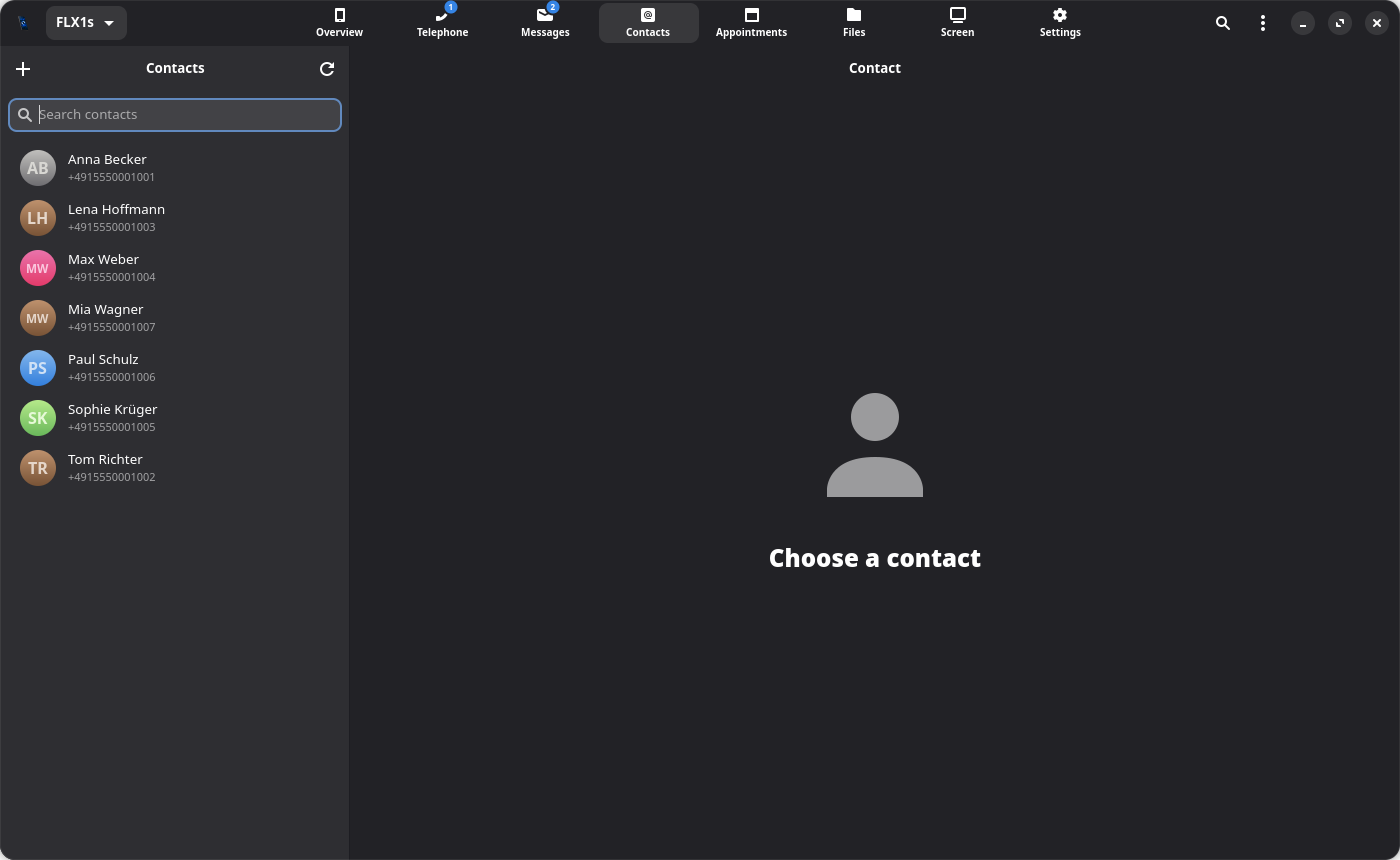
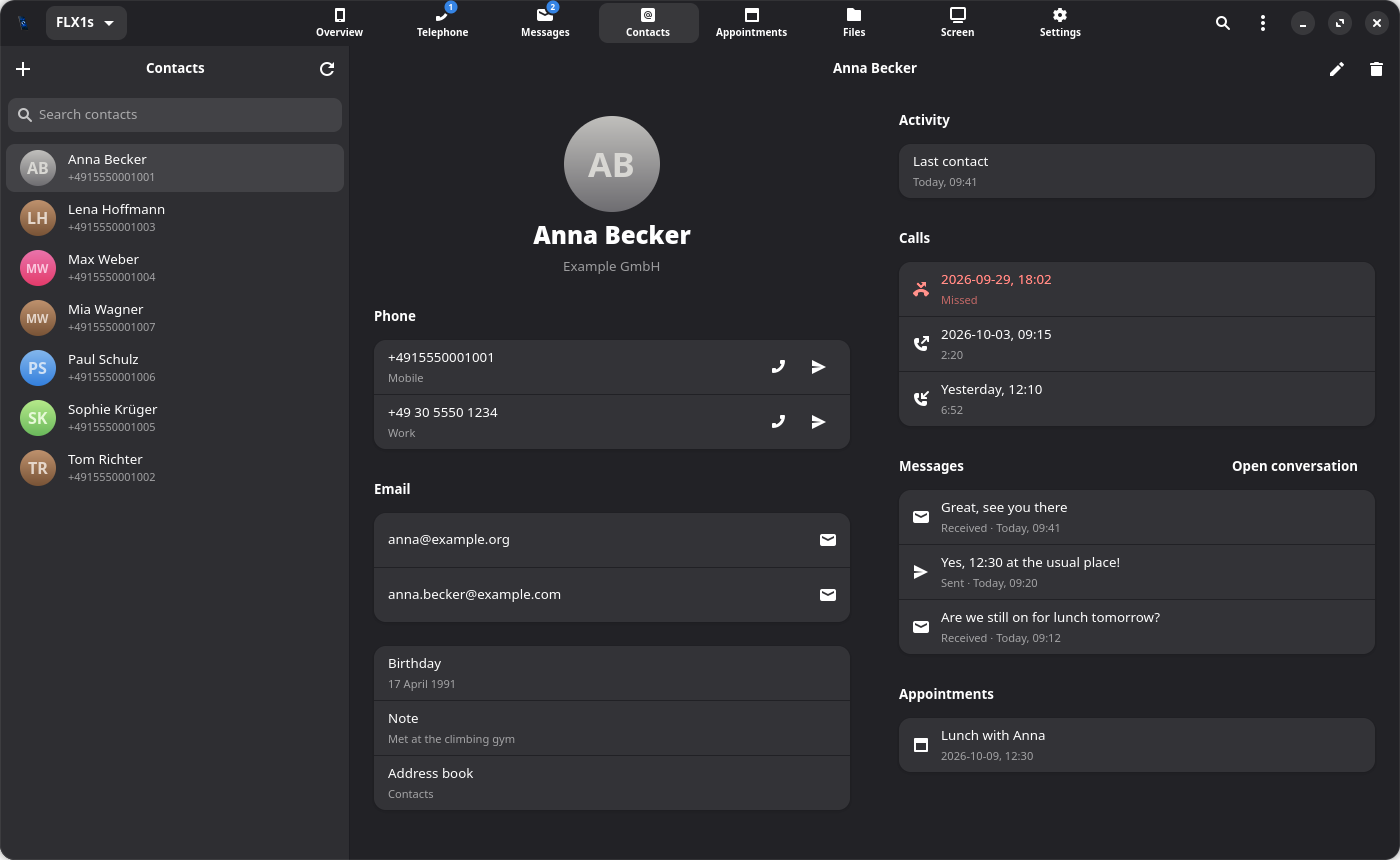
README: the contacts screenshot with a contact open
Anna, with two numbers, two addresses, birthday and note - and what the
page gathers about her: the last contact, her calls (one missed), the
messages and the appointment that names her. DEMO_CONTACT in
tools/screenshot-demo.py opens a contact; two older calls with her make
the list longer, so the telephone page is taken anew as well.

diff --git a/tools/screenshot-demo.py b/tools/screenshot-demo.py
@@ -18,7 +18,9 @@ and the demo ends; without, it stays open for DEMO_SECONDS (20). A made-up
 music player plays, so the overview shows its bar.
 
 DEMO_PAGE picks the page (overview, phone, messages, contacts, calendar,
-files, screen, settings); DEMO_WIDTH and DEMO_HEIGHT the window's size.
+files, screen, settings); DEMO_WIDTH and DEMO_HEIGHT the window's size;
+DEMO_CONTACT a contact to open on the contacts page (with its calls,
+messages and appointments).
 The files are a made-up home, never this PC's; the screen page shows the
 desktop session (sharing the screen would record this PC's here)."""
 
@@ -123,7 +125,9 @@ calls = [("+4915550001002", 1, at(0, 10, 2), None, 20),        # missed today
          ("+4915550001004", 0, at(-1, 16, 40), 5, 95),
          ("+4915550001001", 1, at(-1, 12, 10), 2, 412),
          ("+4915550001006", 0, at(-2, 11, 30), None, 30),
-         ("+4915550001005", 1, at(-3, 19, 5), 4, 180)]
+         ("+4915550001005", 1, at(-3, 19, 5), 4, 180),
+         ("+4915550001001", 0, at(-5, 9, 15), 6, 140),
+         ("+4915550001001", 1, at(-9, 18, 2), None, 25)]
 for i, (number, inbound, start, answered, length) in enumerate(calls, 1):
     db.execute("INSERT INTO calls VALUES (?, ?, ?, ?, ?, ?, 'tel')",
                (i, number, inbound, iso(start),
@@ -192,10 +196,13 @@ for uid, summary, s, e, loc, allday in events:
     eds.events[uid] = vevent(uid, summary, s, e, loc, allday)
 for n, (number, name) in enumerate(sorted(people.items(), key=lambda p: p[1]), 1):
     first, last = name.split(" ", 1)
+    extra = ("TEL;TYPE=WORK,VOICE:+49 30 5550 1234\r\nORG:Example GmbH\r\n"
+             "EMAIL;TYPE=WORK:anna.becker@example.com\r\nBDAY:1991-04-17\r\n"
+             "NOTE:Met at the climbing gym\r\n" if name == "Anna Becker" else "")
     eds.contacts["c%d" % n] = (
         "BEGIN:VCARD\r\nVERSION:3.0\r\nUID:c%d\r\nFN:%s\r\nN:%s;%s;;;\r\n"
-        "TEL;TYPE=CELL:%s\r\nEMAIL;TYPE=INTERNET:%s@example.org\r\nEND:VCARD\r\n"
-        % (n, name, last, first, number, first.lower()))
+        "TEL;TYPE=CELL:%s\r\nEMAIL;TYPE=INTERNET:%s@example.org\r\n%sEND:VCARD\r\n"
+        % (n, name, last, first, number, first.lower(), extra))
 
 config.CONFIG_DIR = os.environ["PHONEBRIDGE_CONFIG"]
 # two conversations unread (Anna, Tom), the others read
@@ -250,8 +257,20 @@ def ready():
         Adw.ColorScheme.FORCE_DARK if os.environ.get("DEMO_DARK") else Adw.ColorScheme.FORCE_LIGHT)
     if page == "overview":
         app.window.overview.load(force=True)
+    if os.environ.get("DEMO_CONTACT"):
+        GLib.timeout_add(300, open_contact)
     if os.environ.get("DEMO_SHOT"):
         GLib.timeout_add(4000, shoot)
+    return False
+
+
+def open_contact():
+    """The contact DEMO_CONTACT, once the address book has come."""
+    contacts = app.window.contacts
+    found = [c for c in contacts.contacts if c["name"] == os.environ["DEMO_CONTACT"]]
+    if not found:
+        return True
+    contacts.show_contact(found[0])
     return False
 
 

diff --git a/README.md b/README.md
@@ -19,12 +19,12 @@ install on the phone.
 light and dark joined by `tools/screenshot-diagonal.py`).</sub>
 
 <details>
-<summary><b>More screenshots</b> - every page as it opens</summary>
+<summary><b>More screenshots</b> - every page</summary>
 
 | | |
 |:---:|:---:|
 | <a href="data/screenshots/phone.png"><img src="data/screenshots/phone.png" alt="Telephone: dial pad and recent calls, with a voice message"></a><br>**Telephone** - dial pad and recent calls | <a href="data/screenshots/messages.png"><img src="data/screenshots/messages.png" alt="Messages: conversations by day, unread ones marked"></a><br>**Messages** - conversations, unread ones marked |
-| <a href="data/screenshots/contacts.png"><img src="data/screenshots/contacts.png" alt="Contacts: the phone's address book"></a><br>**Contacts** - the phone's address book | <a href="data/screenshots/calendar.png"><img src="data/screenshots/calendar.png" alt="Appointments: month view and agenda"></a><br>**Appointments** - month and agenda |
+| <a href="data/screenshots/contacts.png"><img src="data/screenshots/contacts.png" alt="Contacts: a contact with its numbers and addresses, and its calls, messages and appointments"></a><br>**Contacts** - a contact with its calls, messages and appointments | <a href="data/screenshots/calendar.png"><img src="data/screenshots/calendar.png" alt="Appointments: month view and agenda"></a><br>**Appointments** - month and agenda |
 | <a href="data/screenshots/files.png"><img src="data/screenshots/files.png" alt="Files: the phone's home folder"></a><br>**Files** - the phone's home folder | <a href="data/screenshots/screen.png"><img src="data/screenshots/screen.png" alt="Screen: sharing the phone's screen, or a desktop session over RDP"></a><br>**Screen** - screen sharing or a desktop session |
 | <a href="data/screenshots/settings.png"><img src="data/screenshots/settings.png" alt="Settings: quick settings of the phone"></a><br>**Settings** - the phone's settings | |
 
